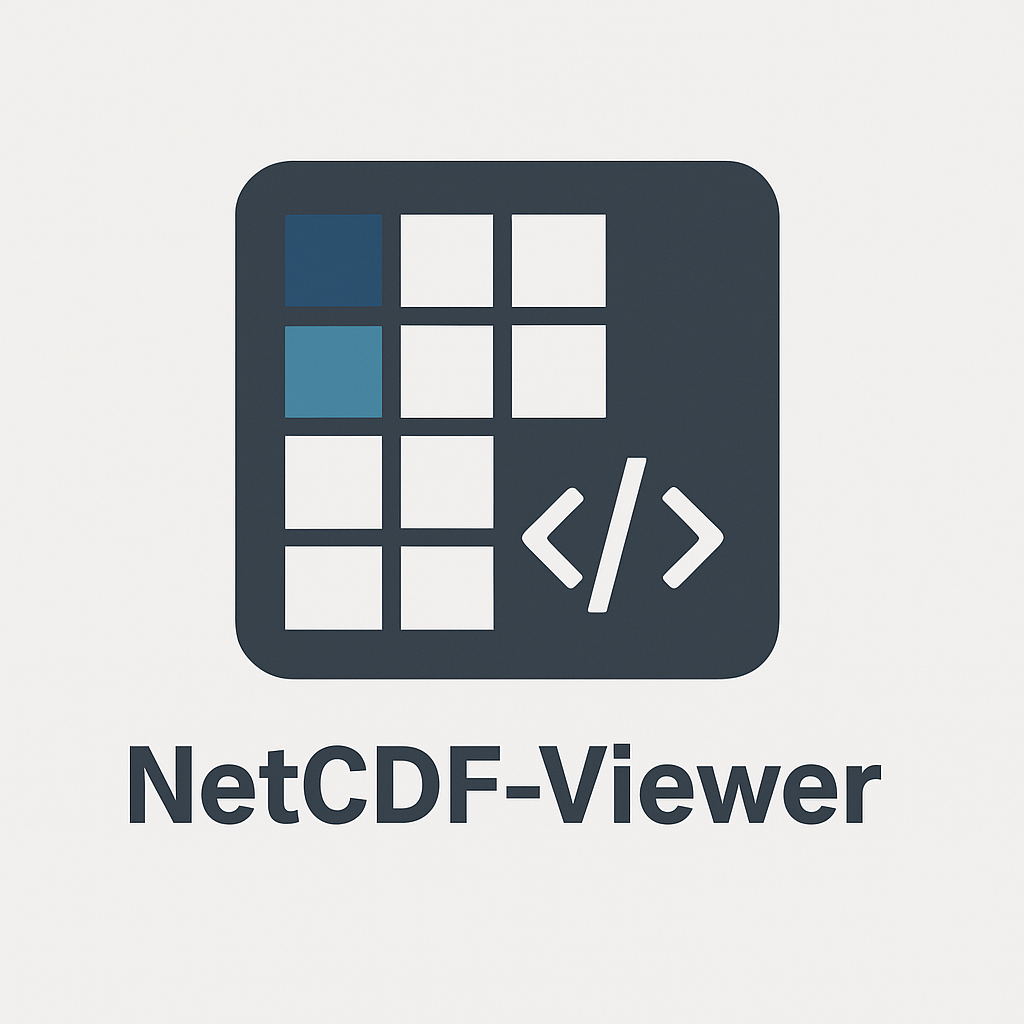
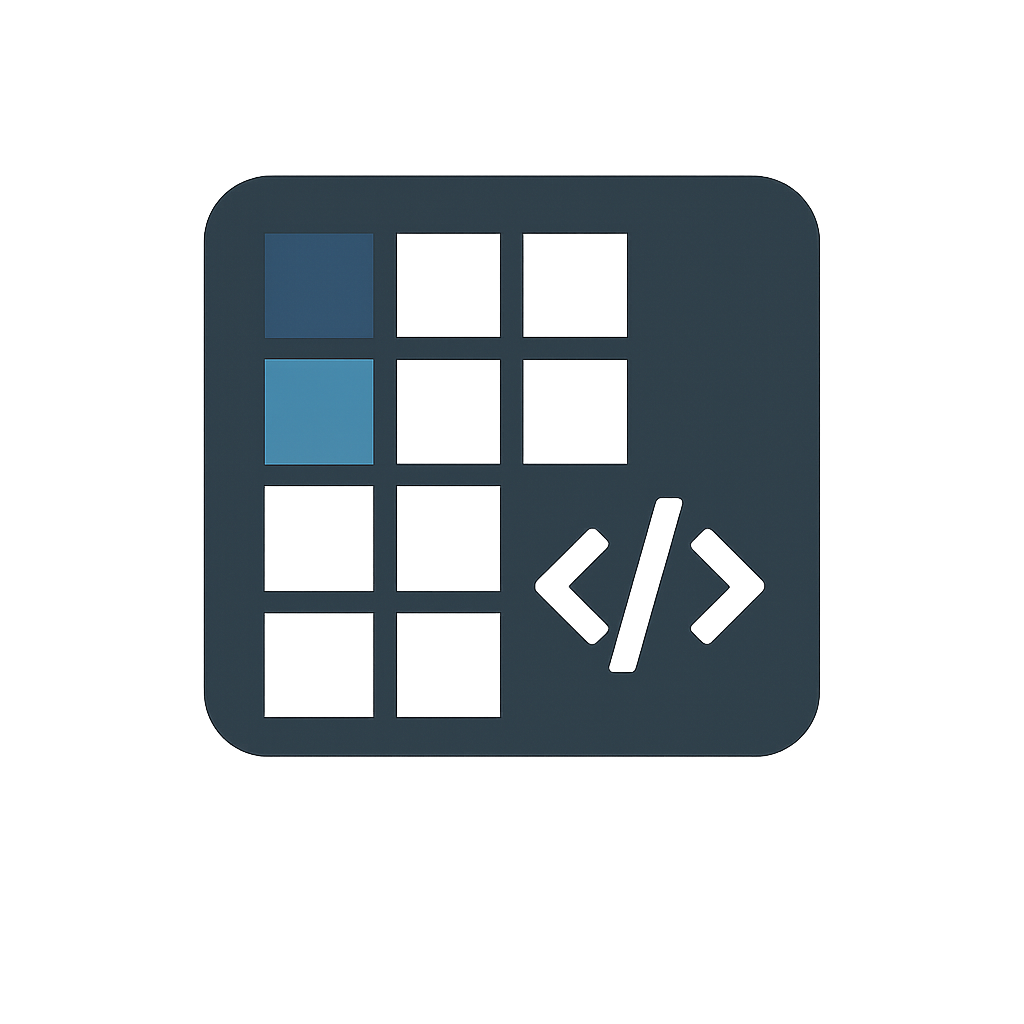
updated changelog

Changed region(s): [[0.125, 0.1562, 0.875, 0.8125]]

diff --git a/CHANGELOG.md b/CHANGELOG.md
@@ -6,6 +6,11 @@ Check [Keep a Changelog](http://keepachangelog.com/) for recommendations on how 
 
 ## [Unreleased]
 
+## [0.0.5] - 2025-06-06
+
+### Added
+- Simply added an icon to the extension.
+
 ## [0.0.4] - 2025-06-06
 
 ### Added
